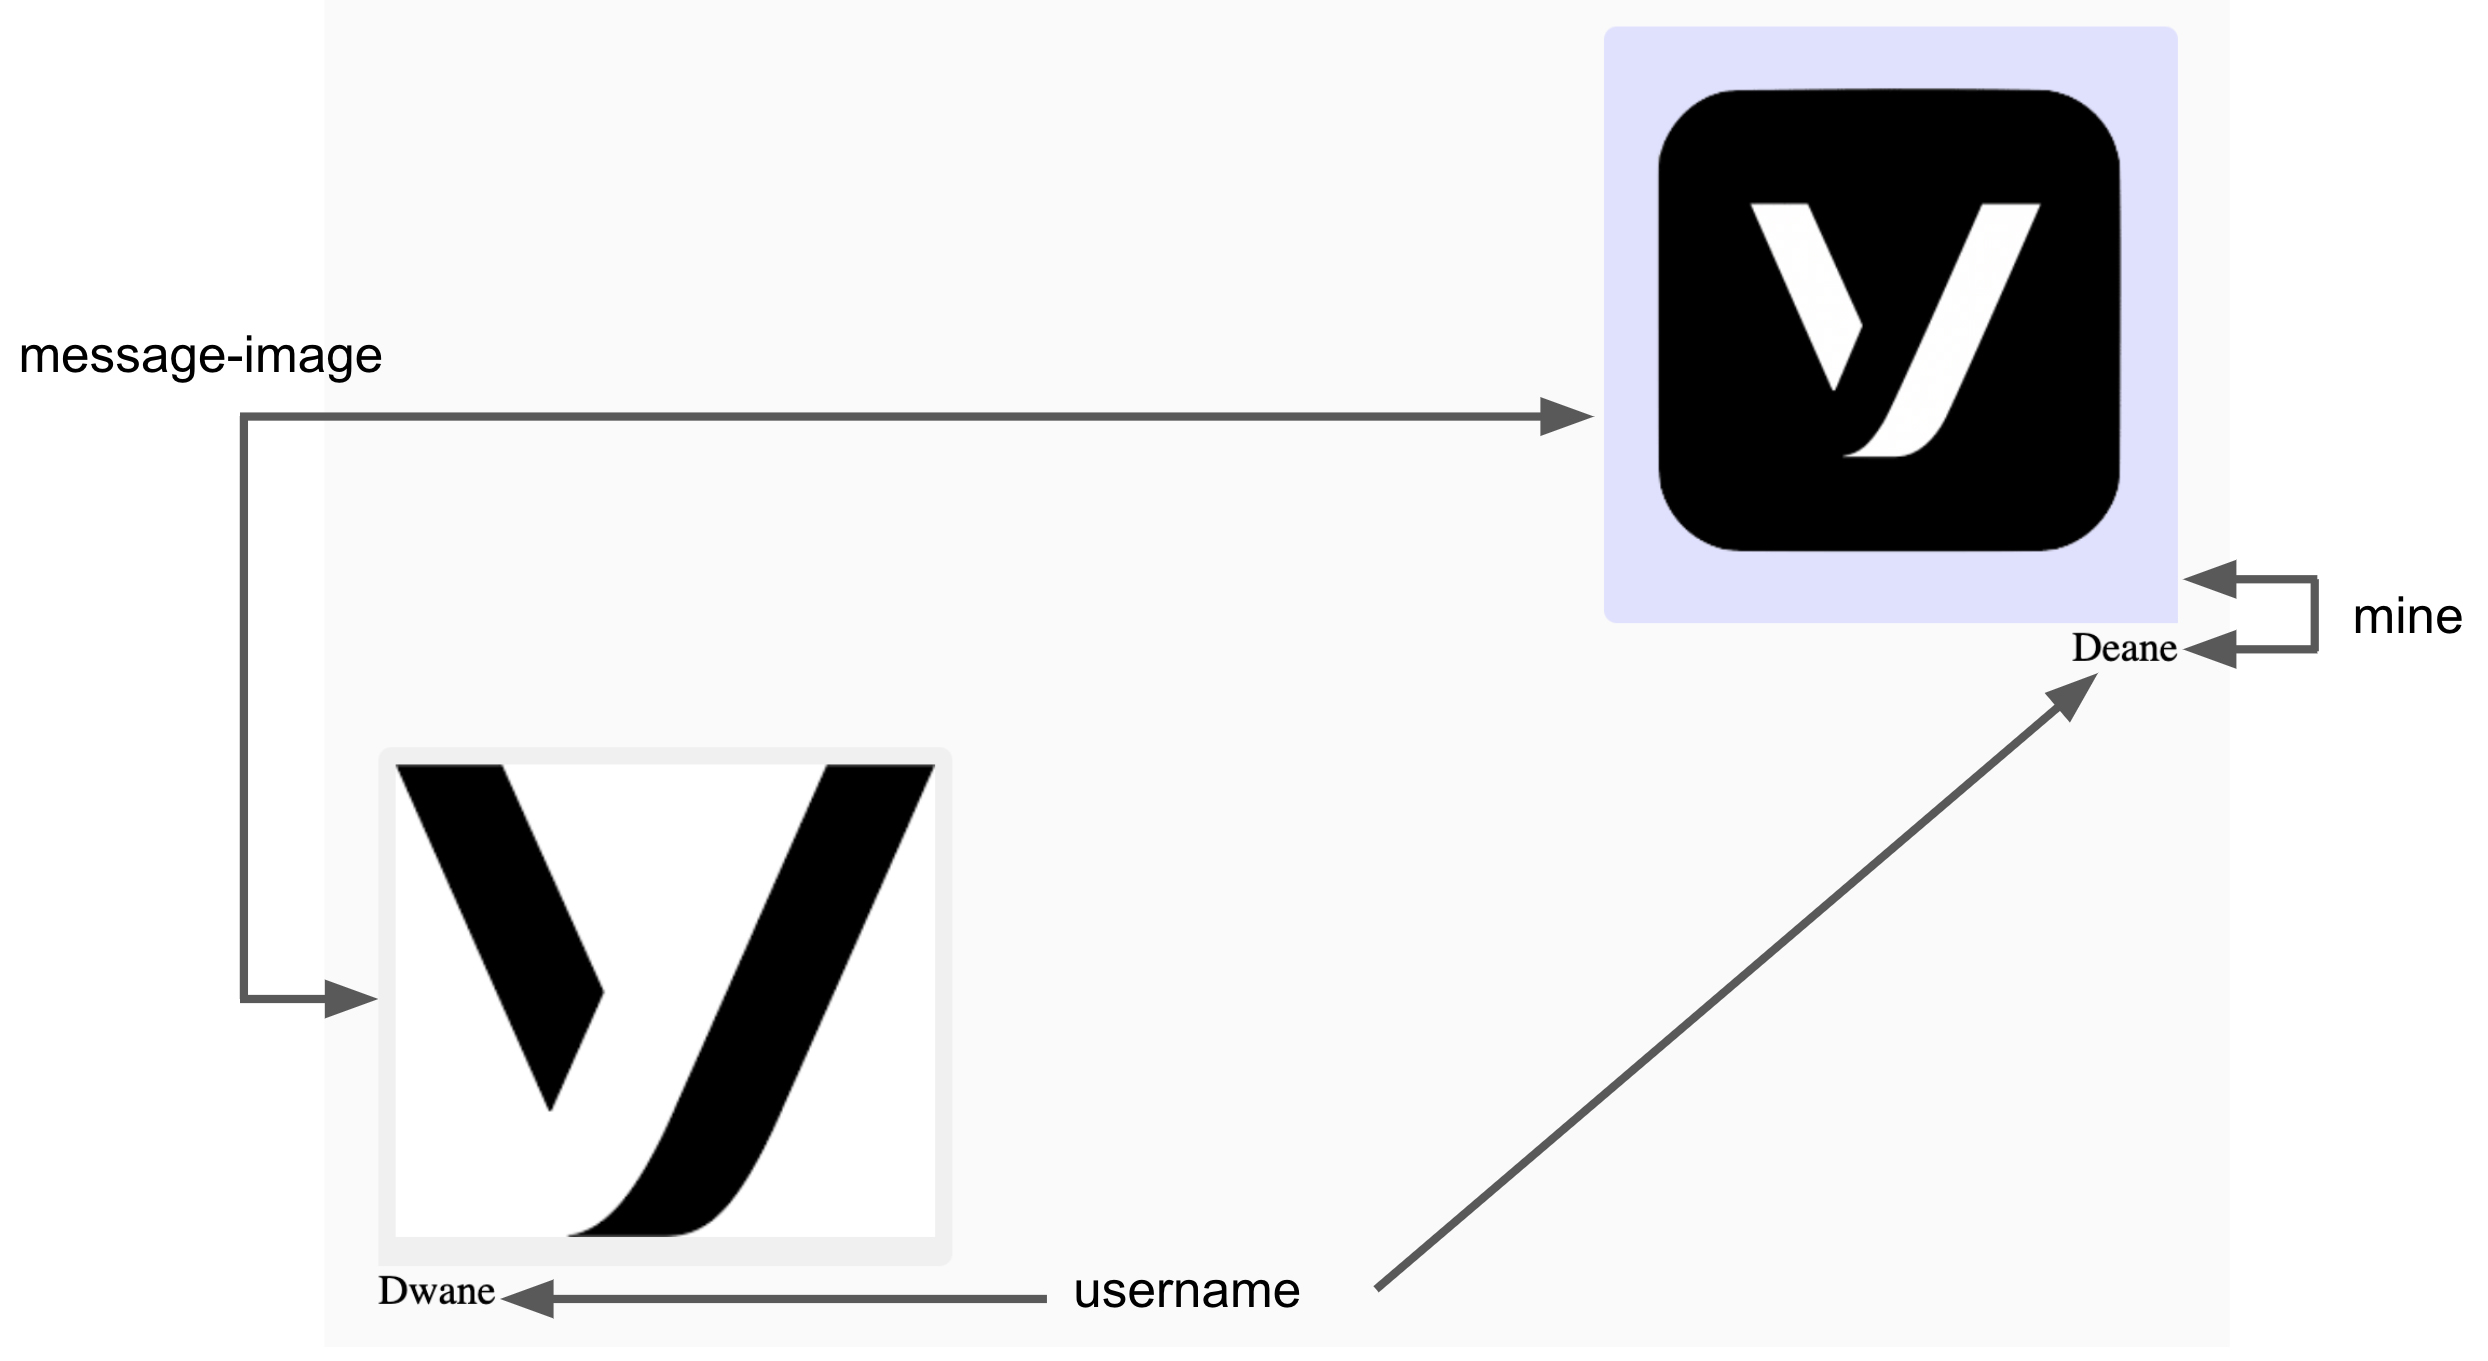
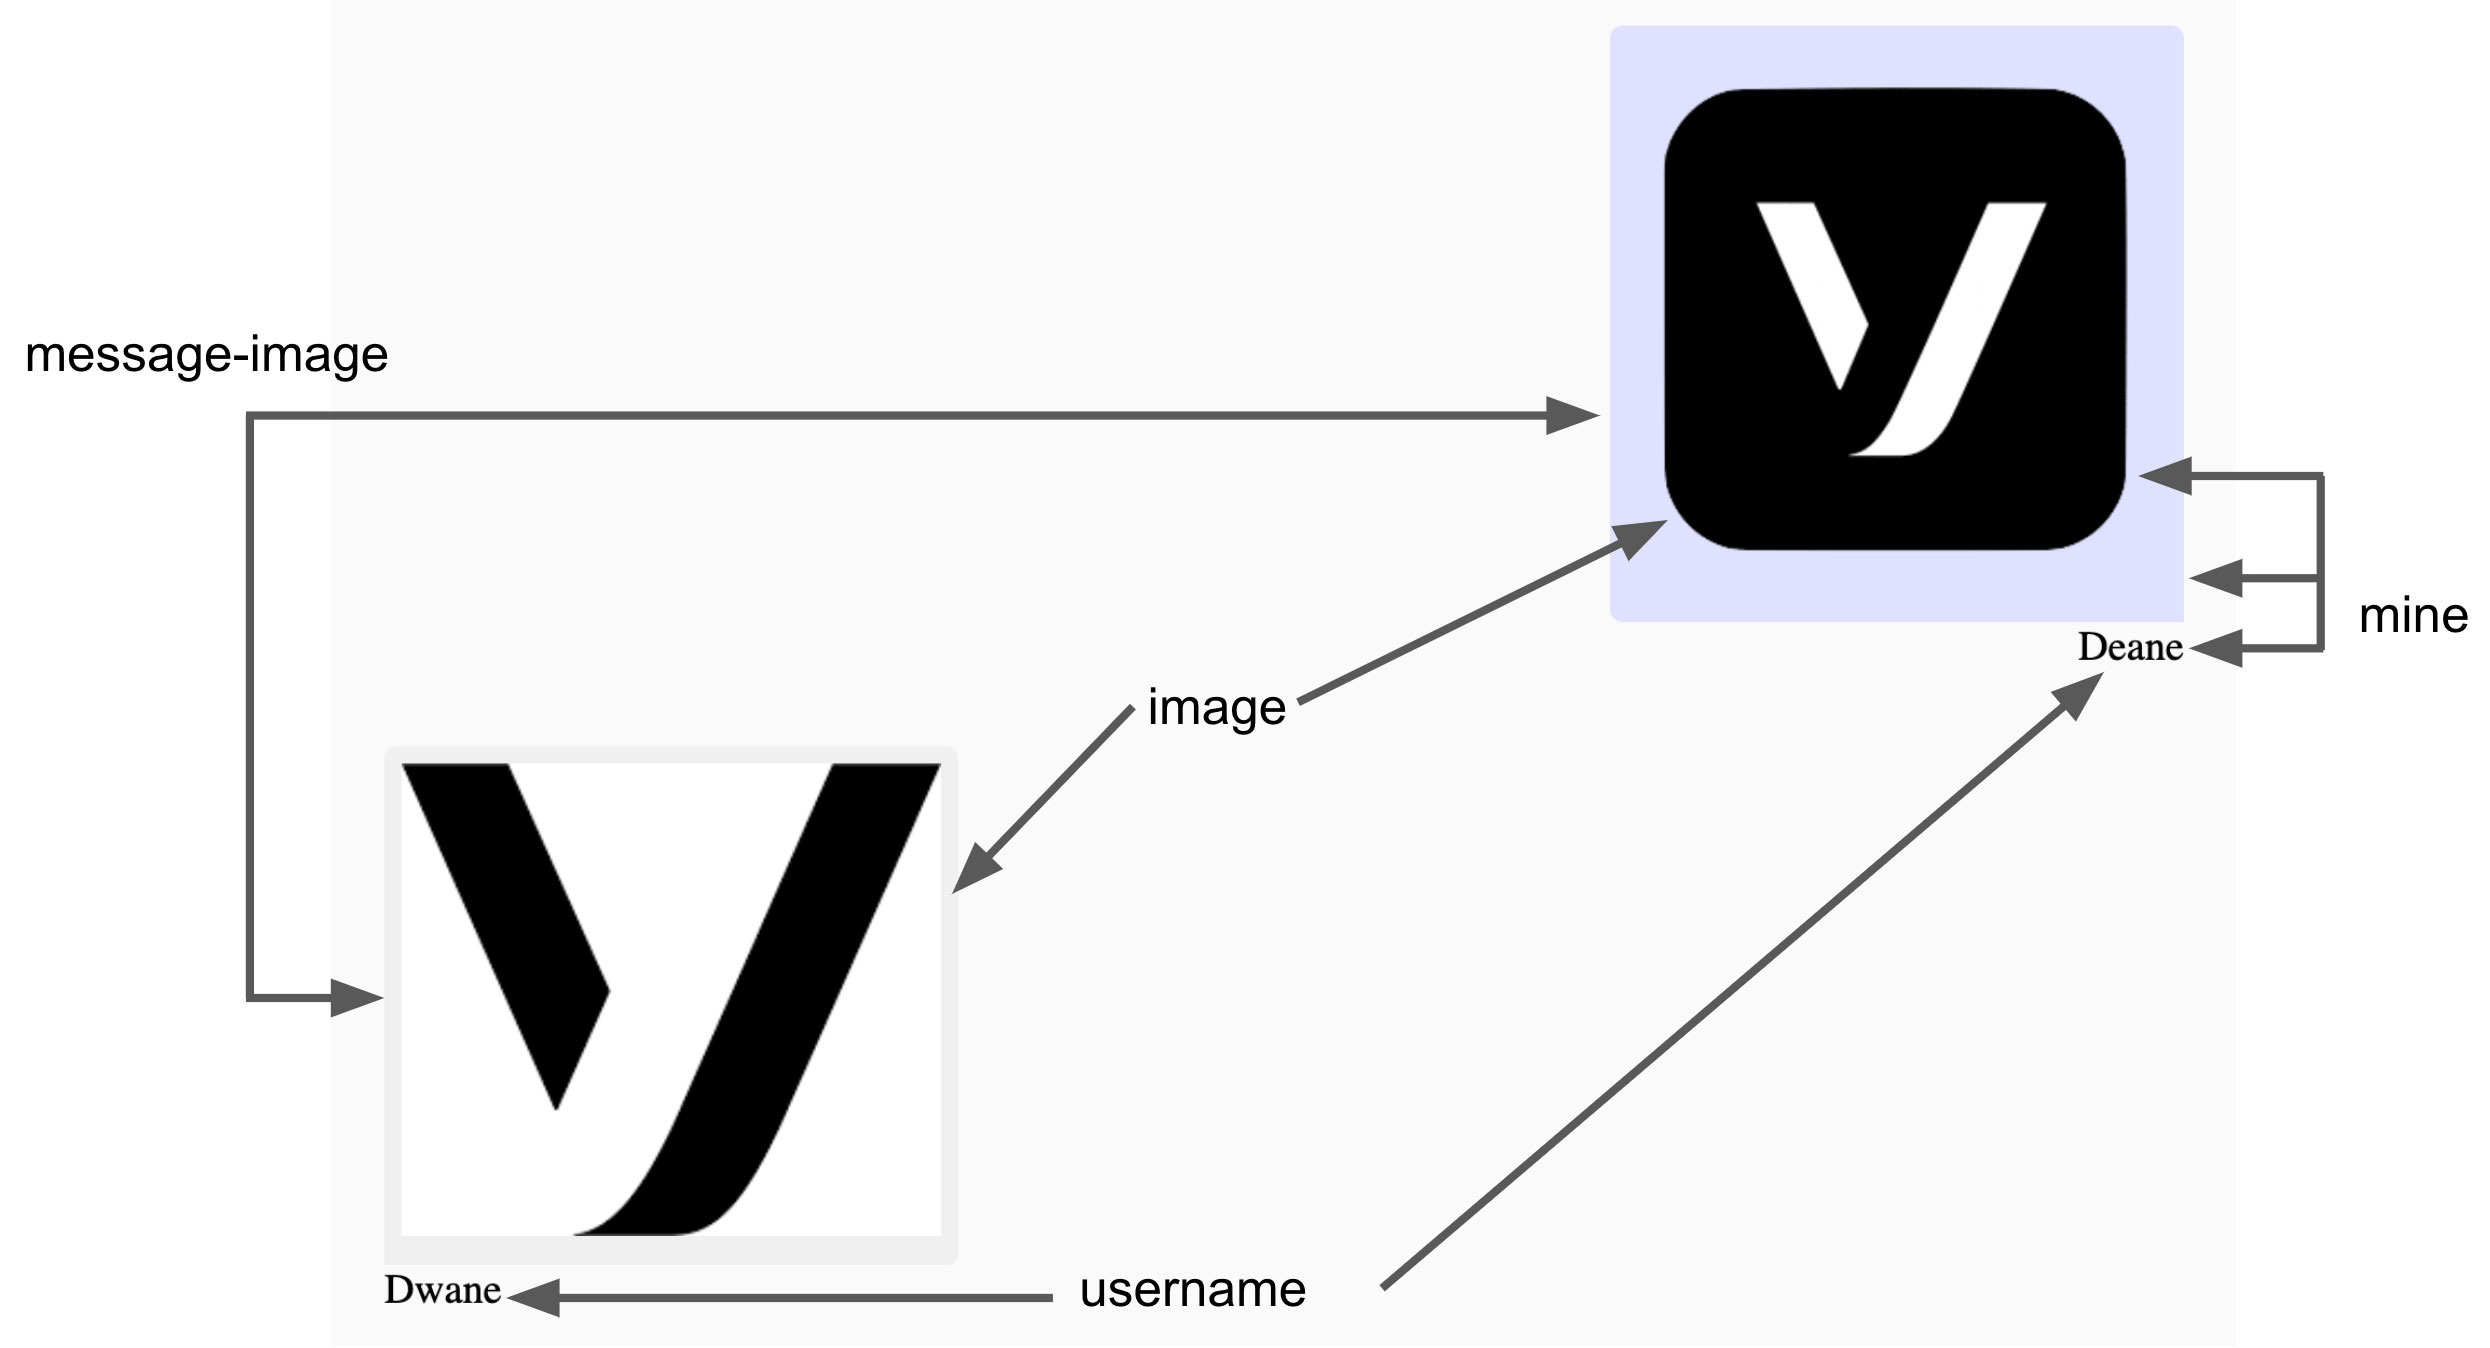
updates ReadMe

diff --git a/vc-messages/README.md b/vc-messages/README.md
@@ -63,6 +63,8 @@ To style the overall message, the part is "message". To style the application us
 
 Each message is made up of the text (part is "message-text") or image (part is "message-image"), and their name (part is "username"). To specifically style the application user's message text, target "message-text mine" or for message image, target "message-image mine". For their name, the target would be "username mine".
 
+To style the image itself, the part is "image". To target the user's image, the part is "image mine".
+
 To get the styling shown in the image:
 
 ```css
